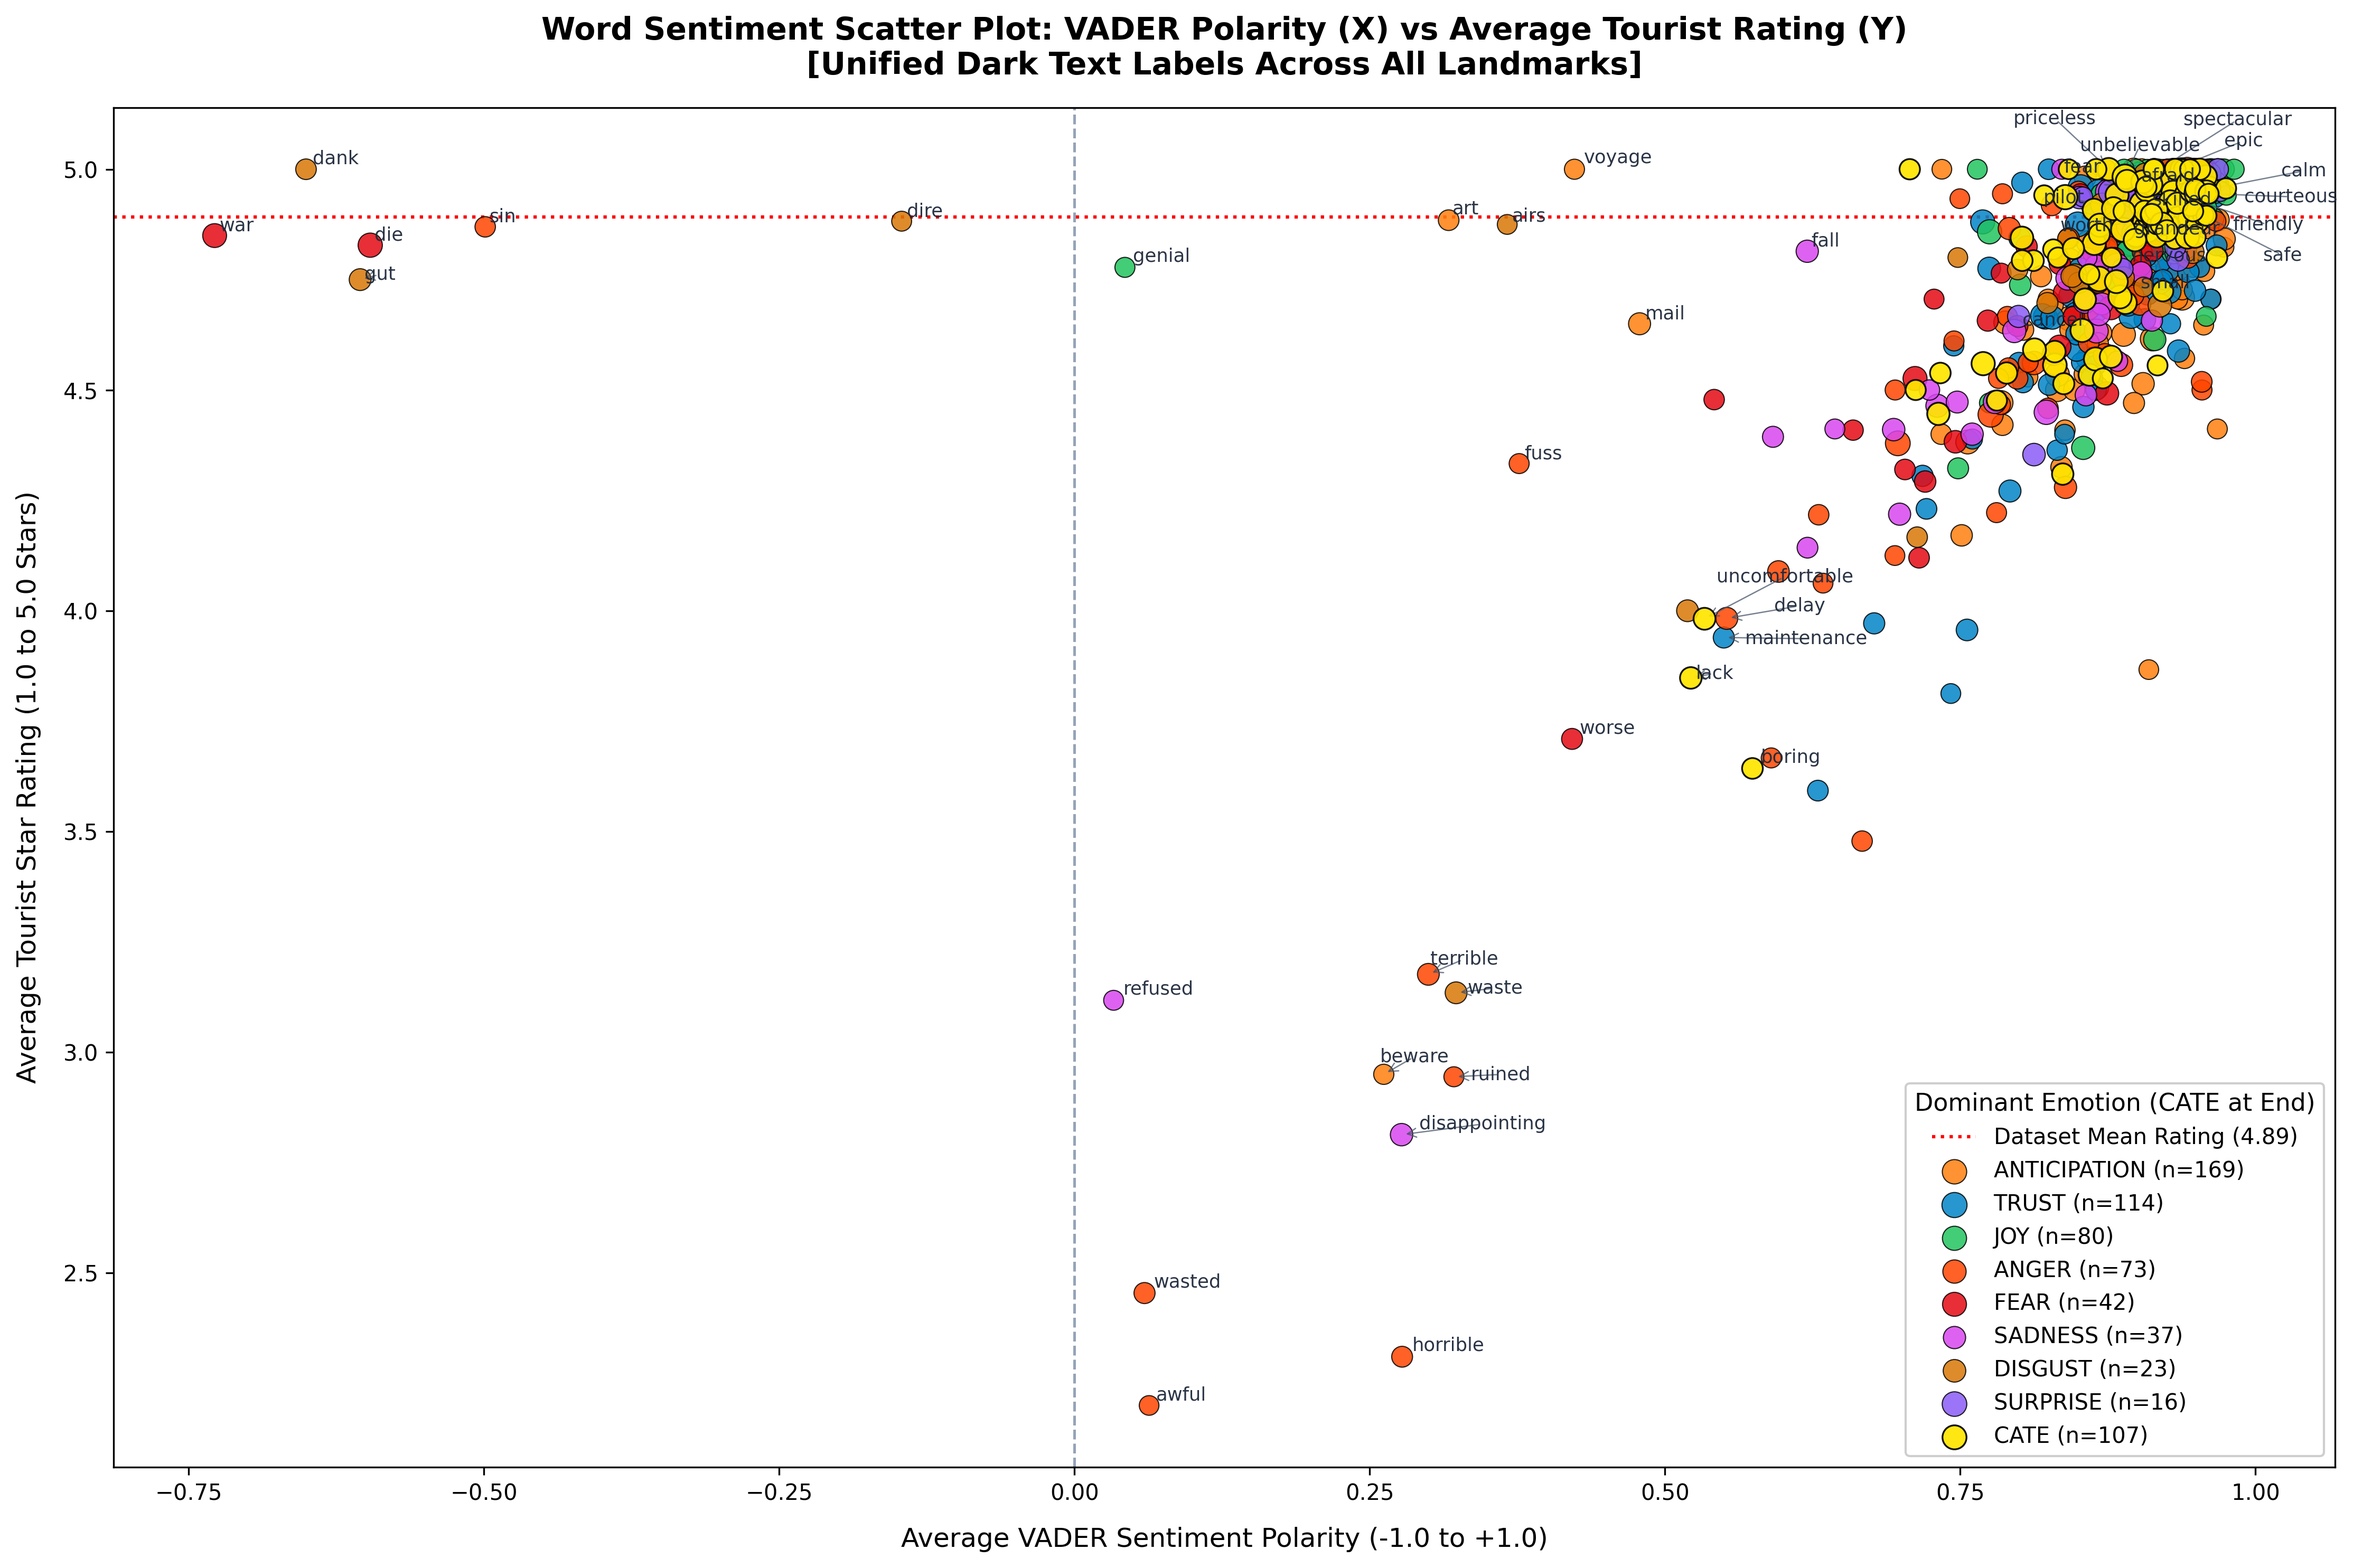
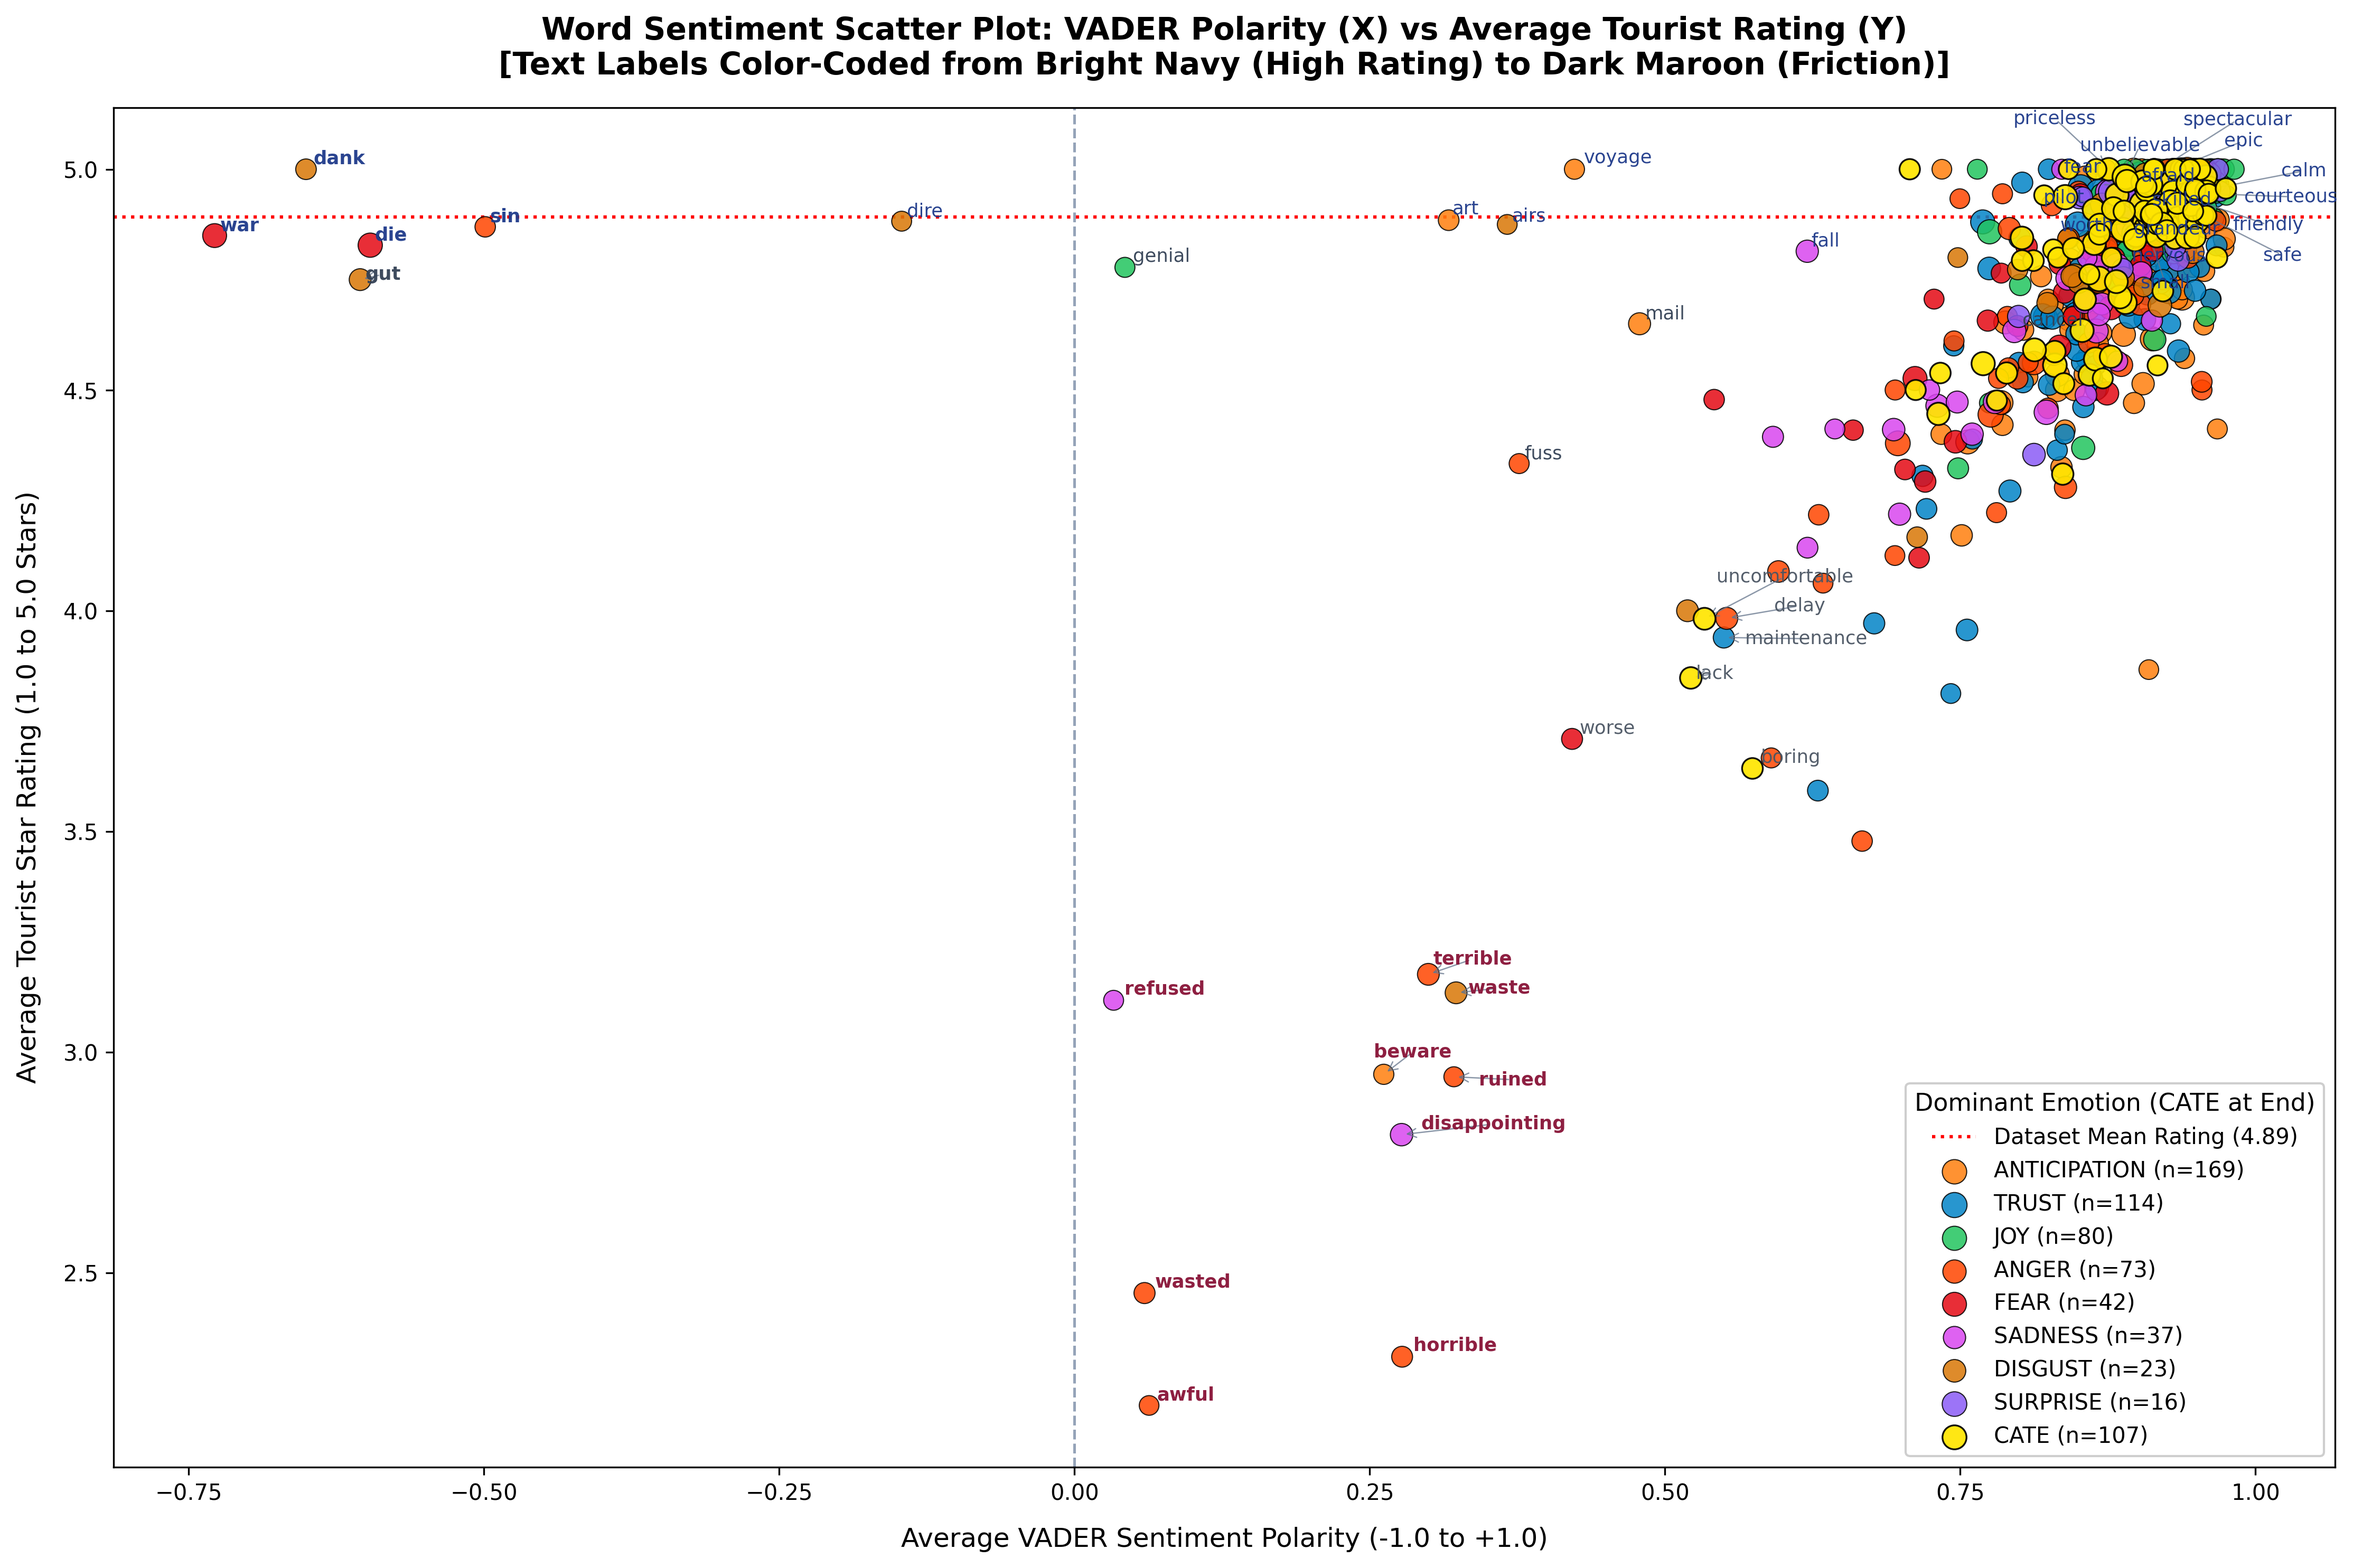
feat(ai): add rating-based text color gradient to scatter plot

diff --git a/generate_nrc_exact_reference_plot.py b/generate_nrc_exact_reference_plot.py
@@ -108,7 +108,6 @@ dataset_mean_rating = df['rating'].mean()
 # -------------------------------------------------------------
 # Generate Clean Publication Scatter Plot
 # Order: NRC Emotions by count, and CATE strictly AT THE END
-# All word labels unified in dark slate black (#1E293B) normal font (like 'beware')
 # -------------------------------------------------------------
 plt.style.use('seaborn-v0_8-whitegrid' if 'seaborn-v0_8-whitegrid' in plt.style.available else 'default')
 fig, ax = plt.subplots(figsize=(15.0, 10.0), dpi=300)
@@ -116,7 +115,7 @@ fig, ax = plt.subplots(figsize=(15.0, 10.0), dpi=300)
 # Sort NRC emotion categories by count descending, then append CATE AT THE VERY END
 nrc_counts = words_df[words_df['category'] != 'CATE']['category'].value_counts()
 categories_order = nrc_counts.index.tolist()
-categories_order.append('CATE')  # Put CATE at the end!
+categories_order.append('CATE')
 
 for cat in categories_order:
     sub = words_df[words_df['category'] == cat]
@@ -125,7 +124,6 @@ for cat in categories_order:
     color = VIVID_EMOTION_COLORS[cat]
     sizes = 40 + 34 * np.log10(sub['count'])
     
-    # CATE drawn with higher zorder (zorder=4) and bold edge so it pops out prominently on top
     z_ord = 4 if cat == 'CATE' else 3
     lw = 0.8 if cat == 'CATE' else 0.5
     
@@ -160,29 +158,47 @@ curated_annotate_words = {
     'spectacular', 'unbelievable', 'breathtaking', 'epic', 'grandeur', 'priceless', 'safe', 'calm'
 }
 
+# Function to get text label color transitioning from bright to dark based on rating & polarity
+def get_label_color_brightness(rating, polarity, category):
+    if rating >= 4.8:
+        # High rating -> Bright Navy / Ocean Blue
+        return '#1E3A8A'
+    elif rating >= 4.2:
+        # Mid-High rating -> Dark Slate Blue
+        return '#334155'
+    elif rating >= 3.5:
+        # Mid-Low rating -> Deep Charcoal / Dark Amber
+        return '#4B5563'
+    else:
+        # Low rating (Severe Friction) -> Deep Crimson Dark Maroon
+        return '#881337'
+
 texts = []
 for idx, row in words_df.iterrows():
     w = row['word']
     if w in curated_annotate_words:
         x = row['mean_polarity']
         y = row['mean_rating']
+        cat = row['category']
         
-        # UNIFIED font style & color for ALL words (matching 'beware': #1E293B, normal weight, 8.5pt)
-        txt = ax.text(x, y, w, fontsize=8.5, fontweight='normal', color='#1E293B', alpha=0.95, zorder=5)
+        txt_color = get_label_color_brightness(y, x, cat)
+        fw = 'bold' if y < 3.5 or x < -0.2 else 'normal'
+        
+        txt = ax.text(x, y, w, fontsize=8.5, fontweight=fw, color=txt_color, alpha=0.95, zorder=5)
         texts.append(txt)
 
-print(f"Annotating exactly {len(texts)} clean curated words unified in beware-style font with adjustText...")
+print(f"Annotating exactly {len(texts)} clean curated words with rating-brightness color coding...")
 
 adjust_text(
     texts,
-    arrowprops=dict(arrowstyle='->', color='#475569', lw=0.6, alpha=0.75),
+    arrowprops=dict(arrowstyle='->', color='#64748B', lw=0.6, alpha=0.75),
     expand_text=(1.25, 1.35),
     expand_points=(1.25, 1.35),
     force_text=(0.6, 0.9),
     force_points=(0.6, 0.9)
 )
 
-ax.set_title('Word Sentiment Scatter Plot: VADER Polarity (X) vs Average Tourist Rating (Y)\n[Unified Dark Text Labels Across All Landmarks]', fontsize=14, fontweight='bold', pad=15)
+ax.set_title('Word Sentiment Scatter Plot: VADER Polarity (X) vs Average Tourist Rating (Y)\n[Text Labels Color-Coded from Bright Navy (High Rating) to Dark Maroon (Friction)]', fontsize=14, fontweight='bold', pad=15)
 ax.set_xlabel('Average VADER Sentiment Polarity (-1.0 to +1.0)', fontsize=12, labelpad=10)
 ax.set_ylabel('Average Tourist Star Rating (1.0 to 5.0 Stars)', fontsize=12, labelpad=10)
 
